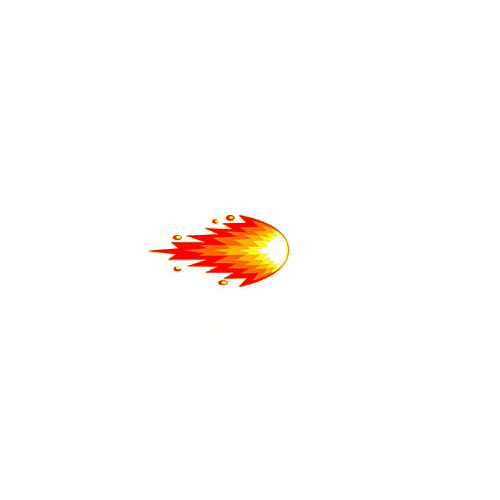
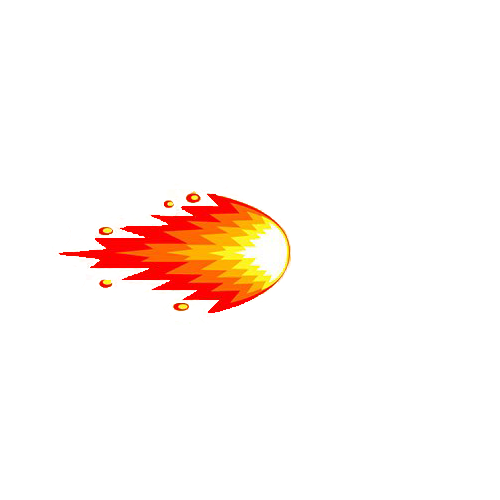
рефактор

Changed region(s): [[0.12, 0.39, 0.6, 0.63]]

diff --git a/Game/src/main/java/com/plekhanov/game/ImageLoader.java b/Game/src/main/java/com/plekhanov/game/ImageLoader.java
@@ -53,9 +53,6 @@ public class ImageLoader {
 
     private static BufferedImage playerFireBallImage_1;
     private static BufferedImage playerFireBallImage_2;
-    private static BufferedImage playerFireBallImage_3;
-    private static BufferedImage playerFireBallImage_4;
-    private static BufferedImage playerFireBallImage_5;
 
     private static BufferedImage heartImage;
 
@@ -128,12 +125,6 @@ public class ImageLoader {
             playerFireBallImage_1 = ImageIO.read(playerFireBall_1);
             File playerFireBall_2 = new File(PATH_TO_RESOURCE + "player" + FS + "player_fire_balls" + FS + "PlayerFireBall_2.png");
             playerFireBallImage_2 = ImageIO.read(playerFireBall_2);
-            File playerFireBall_3 = new File(PATH_TO_RESOURCE + "player" + FS + "player_fire_balls" + FS + "PlayerFireBall_3.png");
-            playerFireBallImage_3 = ImageIO.read(playerFireBall_3);
-            File playerFireBall_4 = new File(PATH_TO_RESOURCE + "player" + FS + "player_fire_balls" + FS + "PlayerFireBall_4.png");
-            playerFireBallImage_4 = ImageIO.read(playerFireBall_4);
-            File playerFireBall_5 = new File(PATH_TO_RESOURCE + "player" + FS + "player_fire_balls" + FS + "PlayerFireBall_5.png");
-            playerFireBallImage_5 = ImageIO.read(playerFireBall_5);
 
             // Предметы
             File heartImageFile = new File(PATH_TO_RESOURCE + "heart.png");
@@ -241,19 +232,6 @@ public class ImageLoader {
     public static BufferedImage getPlayerFireBallImage_2() {
         return playerFireBallImage_2;
     }
-
-    public static BufferedImage getPlayerFireBallImage_3() {
-        return playerFireBallImage_3;
-    }
-
-    public static BufferedImage getPlayerFireBallImage_4() {
-        return playerFireBallImage_4;
-    }
-
-    public static BufferedImage getPlayerFireBallImage_5() {
-        return playerFireBallImage_5;
-    }
-
 
     public static BufferedImage getFireBallImage() {
         return fireBallImage;

diff --git a/Game/src/main/java/com/plekhanov/game/gameObjects/PlayerShoot.java b/Game/src/main/java/com/plekhanov/game/gameObjects/PlayerShoot.java
@@ -21,24 +21,17 @@ public class PlayerShoot extends GameObject {
         liveCycle++;
 
         setImage();
+
     }
 
     private void setImage() {
 
-//        if (liveCycle > Game.UPDATES * 0.05 && liveCycle <= Game.UPDATES * 0.15 ) {
-//            bufferedImage = ImageLoader.getPlayerFireBallImage_2();
-//        }
-//
-//        if (liveCycle > Game.UPDATES * 0.15 && liveCycle <= Game.UPDATES * 0.3 ) {
-//            bufferedImage = ImageLoader.getPlayerFireBallImage_3();
-//        }
-
-        if (liveCycle > Game.UPDATES * 0 && blink() ) {
-            bufferedImage = ImageLoader.getPlayerFireBallImage_4();
+        if  (blink()) {
+            bufferedImage = ImageLoader.getPlayerFireBallImage_1();
         }
 
-        if (liveCycle > Game.UPDATES * 0 && !blink() ) {
-            bufferedImage = ImageLoader.getPlayerFireBallImage_5();
+        if (!blink()) {
+            bufferedImage = ImageLoader.getPlayerFireBallImage_2();
         }
     }
 
